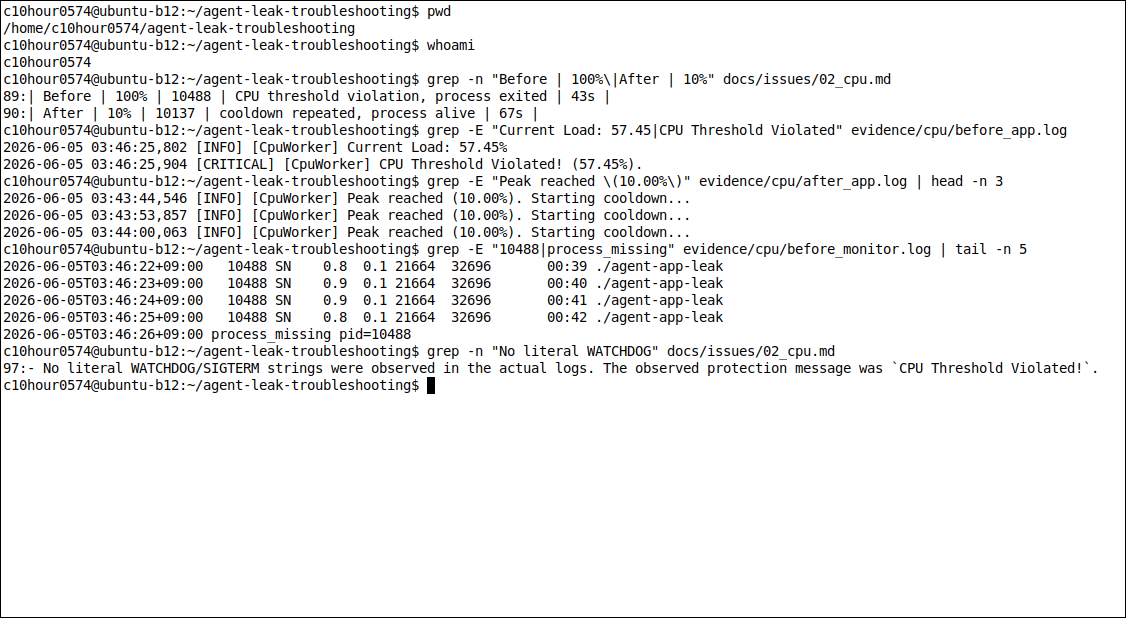
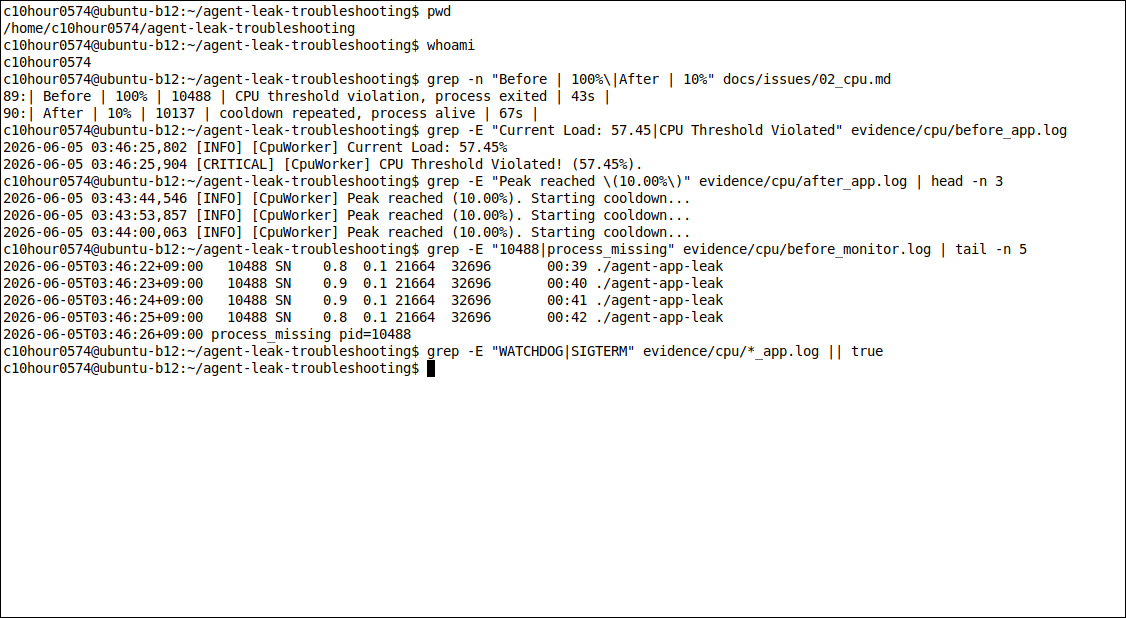
Refine report docs and visual evidence

Changed region(s): [[0.0, 0.5534, 0.9636, 0.6456]]

diff --git a/scripts/make_graphs.py b/scripts/make_graphs.py
@@ -218,9 +218,9 @@ def svg_oom_graph(before: OomSeries, after: OomSeries, out_path: Path) -> None:
 
     lines.extend(
         [
-            f'<text x="{legend_x}" y="{legend_y + 76}" font-family="monospace" font-size="13">Before: 19s survival</text>',
-            f'<text x="{legend_x}" y="{legend_y + 98}" font-family="monospace" font-size="13">After: 42s survival</text>',
-            f'<text x="{legend_x}" y="{legend_y + 120}" font-family="monospace" font-size="13">MemoryGuard terminated</text>',
+            f'<text x="{legend_x}" y="{legend_y + 76}" font-family="monospace" font-size="13">Before: run metadata survival 19s</text>',
+            f'<text x="{legend_x}" y="{legend_y + 98}" font-family="monospace" font-size="13">After: run metadata survival 42s</text>',
+            f'<text x="{legend_x}" y="{legend_y + 120}" font-family="monospace" font-size="13">process_missing marks monitor end</text>',
             f'<text x="{left}" y="{height - 42}" font-family="monospace" font-size="12">RSS values are sampled from monitor.sh. Repeated identical RSS samples were collapsed for readability.</text>',
             f'<text x="{left}" y="{height - 22}" font-family="monospace" font-size="12">Raw logs remain unchanged in evidence/oom/.</text>',
             "</svg>",

diff --git a/docs/evaluation_checklist.md b/docs/evaluation_checklist.md
@@ -1,27 +1,27 @@
 # Evaluation Checklist
 
-| 문항 | 평가 기준 | 충족 여부 | 근거 파일 |
-| --- | --- | --- | --- |
-| 문항 1 | OOM 메모리 증가 후 종료 | 충족 | `docs/issues/01_oom.md`, `evidence/oom/before_monitor.log` |
-| 문항 1 | OOM MEMORY_LIMIT Before & After | 충족 | `docs/issues/01_oom.md` |
-| 문항 1 | CPU 임계치 초과 후 종료 | 충족 | `docs/issues/02_cpu.md`, `evidence/cpu/before_app.log` |
-| 문항 1 | CPU_MAX_OCCUPY Before & After | 충족 | `docs/issues/02_cpu.md` |
-| 문항 1 | Deadlock PID 생존 + 로그 정지 | 충족 | `docs/issues/03_deadlock.md`, `evidence/deadlock/before_ps.txt` |
-| 문항 1 | MULTI_THREAD_ENABLE Before & After | 충족 | `docs/issues/03_deadlock.md` |
-| 문항 1 | GitHub Issue 구조 | 충족 | `docs/issues/01_oom.md`, `docs/issues/02_cpu.md`, `docs/issues/03_deadlock.md` |
-| 문항 1 | PID/타임스탬프/핵심 로그 증거 | 충족 | `docs/issues/*.md`, `evidence/screenshots/*.png` |
-| 문항 2 | monitor.sh 설명 | 충족 | `docs/evaluation_answers.md` |
-| 문항 2 | CPU 도구와 옵션 설명 | 충족 | `docs/evaluation_answers.md` |
-| 문항 2 | 살아있지만 멈춘 프로세스 진단 순서 | 충족 | `docs/evaluation_answers.md` |
-| 문항 3 | MemoryGuard 설명 | 충족 | `docs/evaluation_answers.md`, `docs/issues/01_oom.md` |
-| 문항 3 | CPU 과점유 보호 설명 | 충족 | `docs/evaluation_answers.md`, `docs/issues/02_cpu.md` |
-| 문항 3 | Deadlock 상호 배제/순환 대기 설명 | 충족 | `docs/issues/03_deadlock.md`, `docs/evaluation_answers.md` |
-| 문항 3 | A→B, B→A 순환 의존 추적 | 충족 | `docs/issues/03_deadlock.md`, `docs/evaluation_answers.md` |
-| 문항 4 | monitor.sh 개선안 | 충족 | `docs/evaluation_answers.md` |
-| 문항 4 | 가장 치명적인 장애와 이유 | 충족 | `docs/evaluation_answers.md` |
-| 문항 4 | OOM + Deadlock 동시 발생 시 순서 | 충족 | `docs/evaluation_answers.md` |
-| 문항 4 | 장애별 코드 레벨 개선안 | 충족 | `docs/evaluation_answers.md` |
-| 문항 4 | 다시 수행한다면 바꿀 점 | 충족 | `docs/evaluation_answers.md` |
+| 문항 | 평가 기준 | 충족 여부 | 핵심 근거 | 근거 파일 |
+| --- | --- | --- | --- | --- |
+| 문항 1 | OOM 메모리 증가 후 종료 | 충족 | RSS `21620KB -> 149640KB`, `process_missing`, `Memory limit exceeded` | `docs/issues/01_oom.md`, `evidence/oom/before_monitor.log` |
+| 문항 1 | OOM MEMORY_LIMIT Before & After | 충족 | `128MB -> 256MB`, 생존 시간 `19s -> 42s` | `docs/issues/01_oom.md` |
+| 문항 1 | CPU 임계치 초과 후 종료 | 충족 | `CpuWorker` load `57.45%`, `CPU Threshold Violated!`, `process_missing` | `docs/issues/02_cpu.md`, `evidence/cpu/before_app.log` |
+| 문항 1 | CPU_MAX_OCCUPY Before & After | 충족 | `100% -> 10%`, Before `43s` 종료, After `67s` 생존 | `docs/issues/02_cpu.md` |
+| 문항 1 | Deadlock PID 생존 + 로그 정지 | 충족 | PID `10964` 생존, 로그 크기 `2693 -> 2693 bytes` | `docs/issues/03_deadlock.md`, `evidence/deadlock/before_ps.txt` |
+| 문항 1 | MULTI_THREAD_ENABLE Before & After | 충족 | `true -> false`, false에서 로그 크기 `3538 -> 5662 bytes` | `docs/issues/03_deadlock.md` |
+| 문항 1 | GitHub Issue 구조 | 충족 | Description, Evidence, Root Cause, Workaround 구조 유지 | `docs/issues/01_oom.md`, `docs/issues/02_cpu.md`, `docs/issues/03_deadlock.md` |
+| 문항 1 | PID/타임스탬프/핵심 로그 증거 | 충족 | PID, ISO timestamp, critical log, screenshot 포함 | `docs/issues/*.md`, `evidence/screenshots/*.png` |
+| 문항 2 | monitor.sh 설명 | 충족 | `ps -p PID`로 `pcpu`, `pmem`, `rss_kb`, `etime` 수집 설명 | `docs/evaluation_answers.md` |
+| 문항 2 | CPU 도구와 옵션 설명 | 충족 | `top -p`, `top -H -p`, `ps -p`, `ps -L -p` 옵션 의미 설명 | `docs/evaluation_answers.md` |
+| 문항 2 | 살아있지만 멈춘 프로세스 진단 순서 | 충족 | PID 확인, 로그 갱신 중단, CPU/MEM 정체, 스레드 상태, 마지막 로그 순서 | `docs/evaluation_answers.md` |
+| 문항 3 | MemoryGuard 설명 | 충족 | 메모리 증가가 OS 전체를 압박하기 전에 앱이 자기 종료한다고 설명 | `docs/evaluation_answers.md`, `docs/issues/01_oom.md` |
+| 문항 3 | CPU 과점유 보호 설명 | 충족 | CPU 과점유가 시스템 응답성을 낮추므로 보호 종료한다고 설명 | `docs/evaluation_answers.md`, `docs/issues/02_cpu.md` |
+| 문항 3 | Deadlock 상호 배제/순환 대기 설명 | 충족 | `Shared_Memory_A`와 `Socket_Pool_B`의 A→B, B→A 대기 설명 | `docs/issues/03_deadlock.md`, `docs/evaluation_answers.md` |
+| 문항 3 | A→B, B→A 순환 의존 추적 | 충족 | Thread-1은 A 보유 후 B 대기, Thread-2는 B 보유 후 A 대기 | `docs/issues/03_deadlock.md`, `docs/evaluation_answers.md` |
+| 문항 4 | monitor.sh 개선안 | 충족 | CSV 저장, 자식 PID 추적, 알림, 로그 갱신 시간 기록 제안 | `docs/evaluation_answers.md` |
+| 문항 4 | 가장 치명적인 장애와 이유 | 충족 | Deadlock은 프로세스가 살아 있어 장애 발견이 늦을 수 있다고 설명 | `docs/evaluation_answers.md` |
+| 문항 4 | OOM + Deadlock 동시 발생 시 순서 | 충족 | PID와 로그 갱신 여부를 먼저 보고 Deadlock/OOM 방향을 분리 | `docs/evaluation_answers.md` |
+| 문항 4 | 장애별 코드 레벨 개선안 | 충족 | OOM 캐시/객체 정리, CPU backoff, Deadlock lock 순서/timeout 제안 | `docs/evaluation_answers.md` |
+| 문항 4 | 다시 수행한다면 바꿀 점 | 충족 | 런처 PID와 실제 worker PID를 처음부터 분리해 관제한다고 설명 | `docs/evaluation_answers.md` |
 
 ## Review Notes
 

diff --git a/docs/issues/02_cpu.md b/docs/issues/02_cpu.md
@@ -14,7 +14,7 @@ Graph:
 
 ![CPU load growth](../../evidence/graphs/02_cpu_load_growth.svg)
 
-CPU 그래프는 앱 로그의 `CpuWorker` load 값만 사용했다. `57.45%` threshold 초과와 `10.00%` cooldown 반복을 원본 값 그대로 표시한다.
+CPU 그래프는 앱 로그의 `CpuWorker` load 값만 사용했다. `57.45%` threshold 초과와 `10.00%` cooldown 반복을 원본 값 그대로 표시한다. 따라서 CPU 케이스는 앱 내부 `CpuWorker` load, 고빈도 `top` 샘플, 직후 PID 소멸을 함께 근거로 판단했다.
 
 - 파일:
   - `evidence/cpu/before_app.log`
@@ -93,8 +93,7 @@ Before & After:
 - `CPU_MAX_OCCUPY=100`은 앱 로그에서 `Recommend Under 50%` 경고가 표시되는 설정이다.
 - `CpuWorker`가 load를 계속 올리다가 내부 보호 기준을 넘었고, 앱은 시스템 응답성 저하를 막기 위해 프로세스를 종료했다.
 - `top` 고빈도 샘플에서는 OS 관점 `%CPU`가 최대 25.0%로 잡혔다. 앱 내부 load 57.45%와 OS 샘플 값이 완전히 같지는 않지만, 짧은 burst 또는 앱 내부 계산 기준 차이로 볼 수 있다.
-- 리터럴 `WATCHDOG` 또는 `SIGTERM` 문자열은 이번 로그에서 관측되지 않았다. 대신 보호 종료 근거는 `[CRITICAL] [CpuWorker] CPU Threshold Violated!` 메시지와 직후 PID 소멸이다.
-- No literal WATCHDOG/SIGTERM strings were observed in the actual logs. The observed protection message was `CPU Threshold Violated!`.
+- 실제 실행 로그에서는 리터럴 `WATCHDOG` 또는 `SIGTERM` 문자열이 관측되지 않았다. 이번 실행에서 확인한 보호 종료 근거는 `[CRITICAL] [CpuWorker] CPU Threshold Violated!` 메시지와 직후 PID 소멸이다.
 
 ## 4. Workaround & Verification (조치 및 검증)
 - 임시 조치: `CPU_MAX_OCCUPY=100`에서 `CPU_MAX_OCCUPY=10`으로 낮췄다.

diff --git a/docs/prerequisites.md b/docs/prerequisites.md
@@ -29,8 +29,21 @@
 - `secret.key` 파일을 만들고 `agent_api_key_test`를 쓴다.
 - `AGENT_PORT`, `AGENT_UPLOAD_DIR`, `AGENT_KEY_PATH`, `AGENT_LOG_DIR`을 export한다.
 
+과제 문서에서는 실행 대상을 `agent-leak-app`이라고 부르지만, 실제 압축 해제 후 확인된 실행 파일명은 `agent-app-leak`였다. 리포트에서는 실제 관측된 파일명을 우선 사용했다.
+
 ## 4. 발표 때 설명할 핵심 문장
 
 - “이 단계는 장애를 고치는 단계가 아니라, 앱이 실행될 수 있는 기본 조건을 맞추는 단계입니다.”
 - “환경변수는 프로그램 밖에서 동작 조건을 바꾸는 설정값입니다.”
 - “`MEMORY_LIMIT`, `CPU_MAX_OCCUPY`, `MULTI_THREAD_ENABLE`은 이번 과제에서 Before & After 비교에 사용한 핵심 조절값입니다.”
+
+## 5. 준비 상태 확인에 사용한 명령어
+
+| 확인 대상 | 사용 명령어 | 확인 의미 |
+| --- | --- | --- |
+| 현재 사용자 | `whoami`, `id` | root가 아닌 일반 사용자로 실행 중인지 확인한다. |
+| 작업 디렉터리 | `pwd` | repo와 `AGENT_HOME` 기준 경로를 확인한다. |
+| 필수 폴더 | `test -d "$AGENT_UPLOAD_DIR"` 등 | 앱이 요구하는 업로드/키/로그 디렉터리가 있는지 확인한다. |
+| `secret.key` | `cat "$AGENT_KEY_PATH/secret.key"` | 인증 키 내용이 `agent_api_key_test`인지 확인한다. |
+| 포트 15034 | <code>ss -ltnp &#124; grep ':15034'</code> | 같은 포트를 이미 쓰는 프로세스가 있는지 확인한다. |
+| 메모리/디스크 | `free -h`, `df -h` | 실험을 수행할 여유 자원이 있는지 확인한다. |

diff --git a/docs/issues/01_oom.md b/docs/issues/01_oom.md
@@ -14,7 +14,7 @@ Graph:
 
 ![OOM RSS growth](../../evidence/graphs/01_oom_rss_growth.svg)
 
-그래프는 `monitor.sh`의 RSS 샘플을 사용했다. 보기 쉽게 같은 RSS가 반복되는 구간은 줄였지만, 원본 로그는 `evidence/oom/`에 그대로 보존했다.
+그래프는 `monitor.sh`의 RSS 샘플을 사용했다. 같은 RSS가 반복되는 구간은 보기 쉽게 줄였고, `process_missing`은 monitor 관점에서 worker PID가 사라진 시점을 의미한다. 생존 시간 `19s -> 42s`는 실행 metadata 기준 Before & After 비교값이다.
 
 - 파일:
   - `evidence/oom/before_app.log`

diff --git a/docs/environment.md b/docs/environment.md
@@ -191,5 +191,12 @@ $ which unzip curl wget timeout ps top kill grep awk sed tee date
 ```
 
 ```text
+$ which ss
+/usr/bin/ss
+```
+
+```text
 $ ss -ltnp 2>/dev/null | grep ':15034' || true
 ```
+
+출력이 없다는 것은 수집 시점에 TCP 15034 포트를 점유한 listening 프로세스가 없었다는 뜻이다.

diff --git a/README.md b/README.md
@@ -11,6 +11,7 @@ agent-leak-troubleshooting/
 ├── README.md
 ├── docs/
 │   ├── environment.md
+│   ├── prerequisites.md
 │   ├── final_report.md
 │   ├── evaluation_answers.md
 │   ├── evaluation_checklist.md
